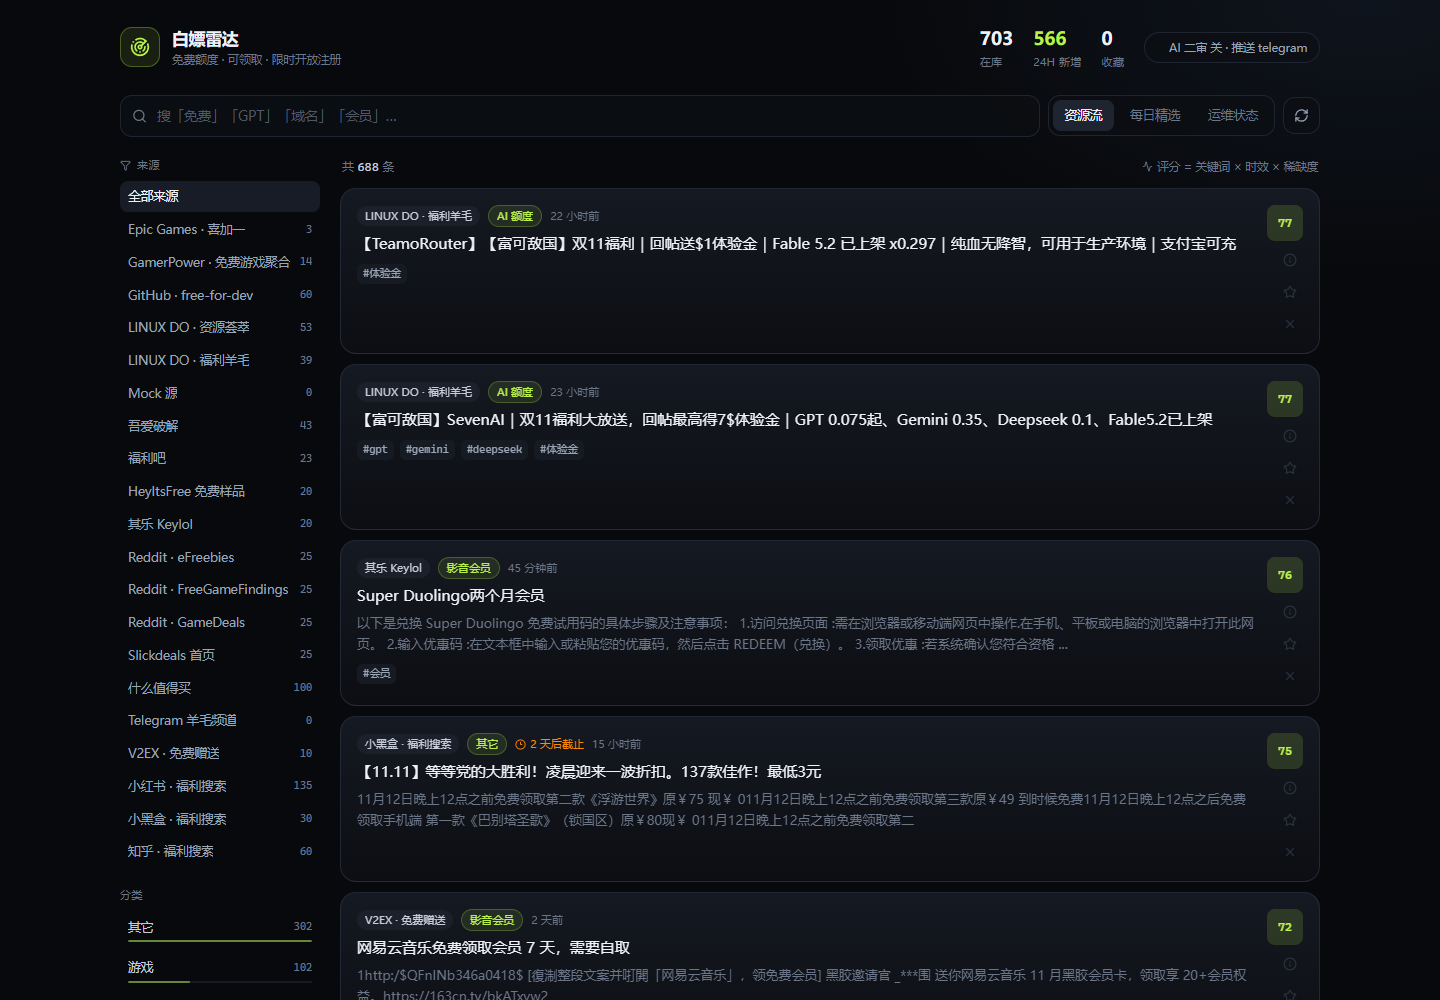
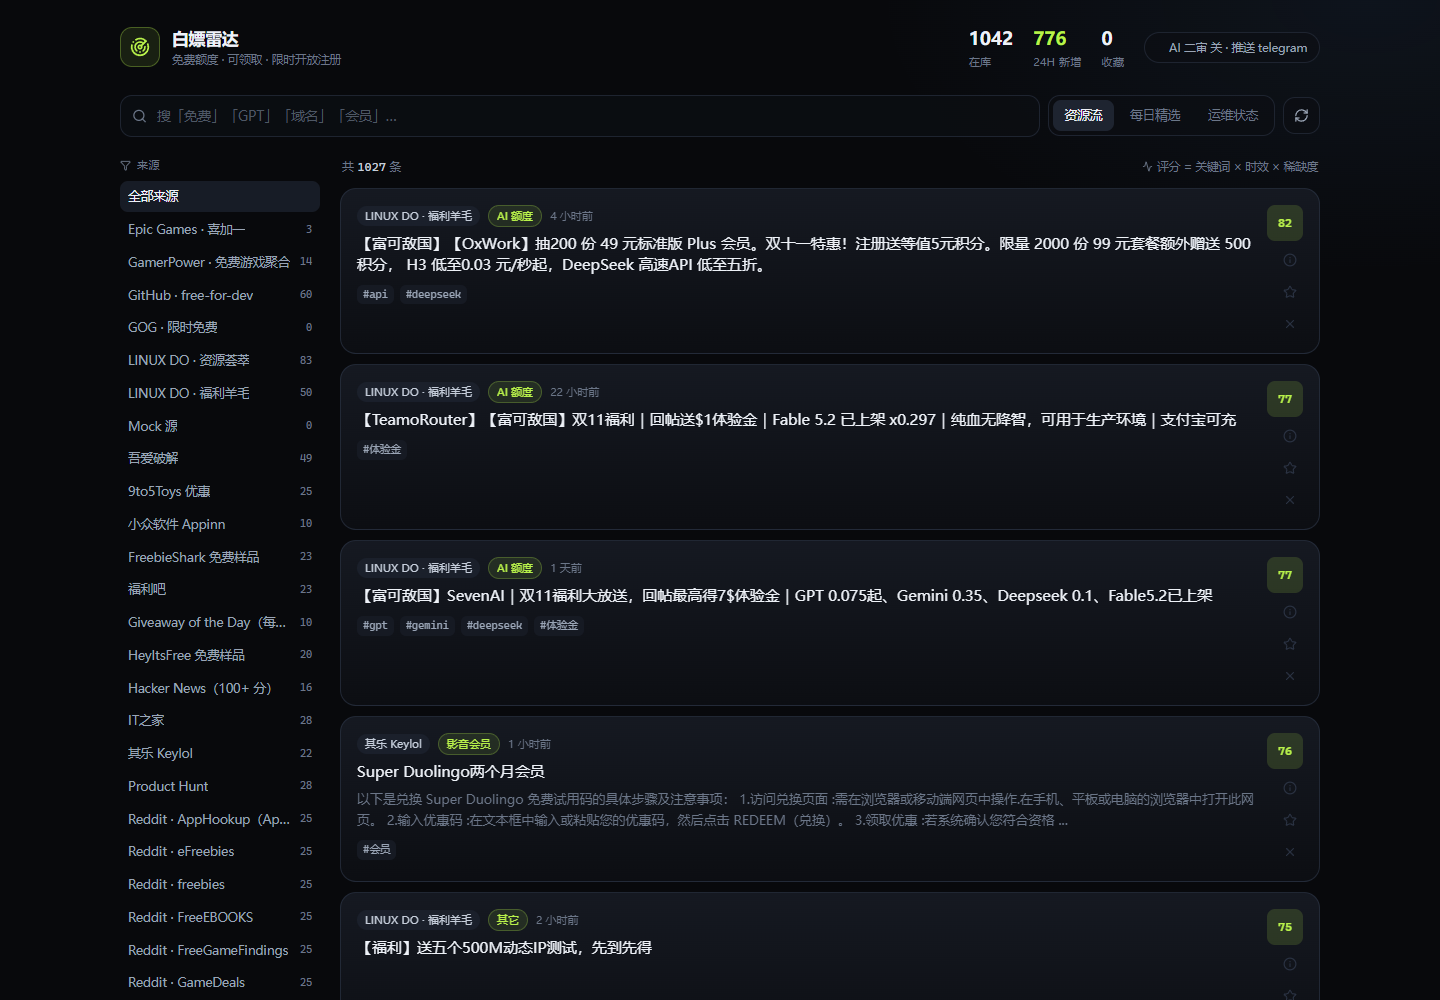
feat: 再增 13 源（Reddit×4/免费软件/AI资讯/Steam），全站 1051 条 31 源

diff --git a/src/server/collectors/index.ts b/src/server/collectors/index.ts
@@ -11,11 +11,13 @@ import { rssCollector } from "./rss.ts";
 import { telegramCollector } from "./telegram.ts";
 import { gamerpowerCollector } from "./gamerpower.ts";
 import { epicCollector } from "./epic.ts";
+import { gogCollector } from "./gog.ts";
+import { steamCollector } from "./steam.ts";
 import type { Collector, RawItem, SourceSeed } from "./types.ts";
 
 export const COLLECTORS: Collector[] = [
   mockCollector, linuxdoCollector, v2exCollector, githubCollector, rssCollector, telegramCollector,
-  gamerpowerCollector, epicCollector,
+  gamerpowerCollector, epicCollector, gogCollector, steamCollector,
 ];
 const BY_KIND = new Map(COLLECTORS.map((c) => [c.kind, c]));
 
@@ -33,6 +35,10 @@ export const SEEDS: SourceSeed[] = [
   { id: "xiaoheihe-search", name: "小黑盒 · 福利搜索", kind: "ingest", enabled: true, config: { keyword: "免费" } },
   { id: "tg-channels", name: "Telegram 羊毛频道", kind: "telegram", enabled: false, config: { channels: [] } },
   { id: "gamerpower", name: "GamerPower · 免费游戏聚合", kind: "gamerpower", enabled: true, config: { query: "type=game", limit: 60 } },
+  // GOG 的 catalog API 不支持 discount=100 / price=free 筛选（实测都返回普通折扣游戏），
+  // 商店页是 Angular SSR，解析成本高、单周通常只有 0-1 个免费，先禁用。
+  { id: "gog-free", name: "GOG · 限时免费", kind: "gog", enabled: false, config: {} },
+  { id: "steam-free", name: "Steam · 限时免费", kind: "steam", enabled: true, config: { count: 50 } },
   { id: "epic-free", name: "Epic Games · 喜加一", kind: "epic", enabled: true, config: { includeUpcoming: true } },
   { id: "rss-reddit-freegames", name: "Reddit · FreeGameFindings", kind: "rss", enabled: true, config: { feeds: [{ id: "freegamefindings", url: "https://www.reddit.com/r/FreeGameFindings/hot.rss", limit: 40 }] } },
   { id: "rss-reddit-efreebies", name: "Reddit · eFreebies", kind: "rss", enabled: true, config: { feeds: [{ id: "efreebies", url: "https://www.reddit.com/r/efreebies/hot.rss", limit: 40 }] } },
@@ -40,6 +46,18 @@ export const SEEDS: SourceSeed[] = [
   { id: "rss-slickdeals", name: "Slickdeals 首页", kind: "rss", enabled: true, config: { feeds: [{ id: "slickdeals", url: "https://slickdeals.net/newsearch.php?rss=1&searcharea=deals&searchin=first", limit: 30 }] } },
   { id: "rss-heyitsfree", name: "HeyItsFree 免费样品", kind: "rss", enabled: true, config: { feeds: [{ id: "heyitsfree", url: "https://heyitsfree.net/feed/", limit: 30 }] } },
   { id: "rss-keylol", name: "其乐 Keylol", kind: "rss", enabled: true, config: { feeds: [{ id: "keylol", url: "https://keylol.com/forum.php?mod=rss", limit: 30 }] } },
+  { id: "rss-reddit-freebies", name: "Reddit · freebies", kind: "rss", enabled: true, config: { feeds: [{ id: "freebies", url: "https://www.reddit.com/r/freebies/hot.rss", limit: 30 }] } },
+  { id: "rss-reddit-apphookup", name: "Reddit · AppHookup（App 限免）", kind: "rss", enabled: true, config: { feeds: [{ id: "apphookup", url: "https://www.reddit.com/r/AppHookup/hot.rss", limit: 30 }] } },
+  { id: "rss-reddit-freeebooks", name: "Reddit · FreeEBOOKS", kind: "rss", enabled: true, config: { feeds: [{ id: "freeebooks", url: "https://www.reddit.com/r/FreeEBOOKS/hot.rss", limit: 30 }] } },
+  { id: "rss-reddit-googleplay", name: "Reddit · GooglePlayDeals", kind: "rss", enabled: true, config: { feeds: [{ id: "googleplaydeals", url: "https://www.reddit.com/r/googleplaydeals/hot.rss", limit: 30 }] } },
+  { id: "rss-giveawayoftheday", name: "Giveaway of the Day（每日免费软件）", kind: "rss", enabled: true, config: { feeds: [{ id: "giveawayoftheday", url: "https://www.giveawayoftheday.com/feed/", limit: 20 }] } },
+  { id: "rss-appinn", name: "小众软件 Appinn", kind: "rss", enabled: true, config: { feeds: [{ id: "appinn", url: "https://www.appinn.com/feed/", limit: 20 }] } },
+  { id: "rss-sspai", name: "少数派", kind: "rss", enabled: true, config: { feeds: [{ id: "sspai", url: "https://sspai.com/feed", limit: 20 }] } },
+  { id: "rss-ithome", name: "IT之家", kind: "rss", enabled: true, config: { feeds: [{ id: "ithome", url: "https://www.ithome.com/rss/", limit: 25 }] } },
+  { id: "rss-producthunt", name: "Product Hunt", kind: "rss", enabled: true, config: { feeds: [{ id: "producthunt", url: "https://www.producthunt.com/feed", limit: 25 }] } },
+  { id: "rss-hnrss", name: "Hacker News（100+ 分）", kind: "rss", enabled: true, config: { feeds: [{ id: "hnrss", url: "https://hnrss.org/frontpage?points=100", limit: 25 }] } },
+  { id: "rss-freebieshark", name: "FreebieShark 免费样品", kind: "rss", enabled: true, config: { feeds: [{ id: "freebieshark", url: "https://www.freebieshark.com/feed/", limit: 25 }] } },
+  { id: "rss-9to5toys", name: "9to5Toys 优惠", kind: "rss", enabled: true, config: { feeds: [{ id: "9to5toys", url: "https://9to5toys.com/feed/", limit: 25 }] } },
   { id: "mock-source", name: "Mock 源", kind: "mock", enabled: false, config: {} },
 ];
 
@@ -335,5 +353,7 @@ export async function runAll(
       out.push({ sourceId: id, status: "failed", fetched: 0, inserted: 0, skipped: 0, durationMs: 0, error: message, cursor: null });
     }
   }
+    // 源之间留间隔：Reddit 一类站点对同 IP 连续请求会返回 429
+    if (config.sourceGapMs > 0) await new Promise((r) => setTimeout(r, config.sourceGapMs));
   return out;
 }

diff --git a/src/server/collectors/gog.ts b/src/server/collectors/gog.ts
@@ -1,0 +1,60 @@
+import type { Collector, RawItem } from "./types.ts";
+
+type GogProduct = {
+  id: string;
+  title: string;
+  slug?: string;
+  storeLink?: string;
+  releaseDate?: string;
+  genres?: { name?: string }[];
+  tags?: { name?: string }[];
+  price?: { finalMoney?: { amount?: string }; final?: string; base?: string; discount?: string };
+};
+
+function isoDate(d?: string): string | null {
+  if (!d) return null;
+  const m = /^(\d{4})[.\-](\d{1,2})[.\-](\d{1,2})$/.exec(d.trim());
+  if (!m) return null;
+  return new Date(Number(m[1]), Number(m[2]) - 1, Number(m[3])).toISOString();
+}
+
+function isFree(p: GogProduct): boolean {
+  const amt = String(p.price?.finalMoney?.amount ?? p.price?.final ?? "");
+  return amt === "0" || /^\$?0(\.0+)?$/.test(amt);
+}
+
+/** GOG 官方目录接口：discount=100 即 100% off（限时免费）。 */
+export const gogCollector: Collector = {
+  kind: "gog",
+  label: "GOG 限时免费",
+  defaults: { config: { country: "US", locale: "en-US", limit: 48 } },
+  async collect(ctx) {
+    const country = String(ctx.config.country ?? "US");
+    const locale = String(ctx.config.locale ?? "en-US");
+    const url =
+      "https://catalog.gog.com/v1/catalog?limit=" + Number(ctx.config.limit ?? 48) +
+      "&discount=100&productType=in:game&countryCode=" + country + "&locale=" + locale + "&currencyCode=USD";
+    ctx.log("GET " + url);
+
+    const res = await ctx.http.json<{ products?: GogProduct[] }>(url, { headers: { accept: "application/json" } });
+    if (res.status !== 200) throw new Error("GOG HTTP " + res.status);
+    const products = res.data?.products ?? [];
+    const free = products.filter(isFree);
+
+    const items: RawItem[] = free.map((p) => ({
+      externalId: String(p.id),
+      url: p.storeLink || "https://www.gog.com/en/game/" + (p.slug ?? ""),
+      title: p.title,
+      summary: [(p.genres ?? []).map((g) => g.name).filter(Boolean).slice(0, 3).join(" / "), p.price?.base ? "原价 " + p.price.base : ""]
+        .filter(Boolean)
+        .join(" · "),
+      author: "GOG.com",
+      publishedAt: isoDate(p.releaseDate),
+      tags: ["gog", "100% off", ...(p.tags ?? []).map((t) => t.name ?? "").filter(Boolean).slice(0, 3)],
+      raw: { id: p.id, slug: p.slug, discount: p.price?.discount },
+    }));
+
+    ctx.log("parsed " + items.length + " free of " + products.length);
+    return { items: items.slice(0, ctx.maxItems), cursor: null };
+  },
+};

diff --git a/src/server/collectors/steam.ts b/src/server/collectors/steam.ts
@@ -1,0 +1,49 @@
+import type { Collector, RawItem } from "./types.ts";
+import { decodeEntities } from "../enrich/normalize.ts";
+
+function parseRows(html: string): { url: string; title: string; appId: string }[] {
+  const out: { url: string; title: string; appId: string }[] = [];
+  // Steam 的 <a> 上挂了很长的 onmouseover / data-* 属性，从 href 到 title 有 1-2KB，
+  // 只给 800 字符会漏掉所有结果。
+  const re = /<a href="(https:\/\/store\.steampowered\.com\/app\/[^"]+)"[\s\S]{0,3000}?<span class="title">([^<]+)<\/span>/g;
+  let m: RegExpExecArray | null;
+  while ((m = re.exec(html))) {
+    const url = (m[1] ?? "").split("?")[0] ?? "";
+    const title = decodeEntities((m[2] ?? "").trim());
+    const appId = /\/app\/(\d+)/.exec(url)?.[1] ?? url;
+    if (url && title && !out.some((x) => x.appId === appId)) out.push({ url, title, appId });
+  }
+  return out;
+}
+
+/** Steam 商店搜索的 AJAX 接口：maxprice=free + specials=1 就是「限时免费 / 100% off」。 */
+export const steamCollector: Collector = {
+  kind: "steam",
+  label: "Steam 限时免费",
+  defaults: { config: { count: 50 } },
+  async collect(ctx) {
+    const count = Math.min(Number(ctx.config.count ?? 50), 100);
+    const url =
+      "https://store.steampowered.com/search/results/?query&start=0&count=" + count +
+      "&maxprice=free&specials=1&infinite=1&cc=us&l=schinese";
+    ctx.log("GET " + url);
+
+    const res = await ctx.http.json<{ total_count?: number; results_html?: string }>(url);
+    if (res.status !== 200) throw new Error("Steam HTTP " + res.status);
+    const rows = parseRows(res.data?.results_html ?? "");
+
+    const items: RawItem[] = rows.map((r) => ({
+      externalId: r.appId,
+      url: r.url,
+      title: r.title,
+      summary: "Steam 限时免费（100% off）",
+      author: "Steam",
+      publishedAt: null,
+      tags: ["steam", "限时免费"],
+      raw: { appId: r.appId },
+    }));
+
+    ctx.log("parsed " + items.length + " (total_count=" + (res.data?.total_count ?? "?") + ")");
+    return { items: items.slice(0, ctx.maxItems), cursor: null };
+  },
+};

diff --git a/src/web/src/App.tsx b/src/web/src/App.tsx
@@ -53,7 +53,11 @@ const SOURCE_LABEL: Record<string, string> = {
   "mock-source": "Mock 源",
 };
 
-const sourceName = (id: string) => SOURCE_LABEL[id] ?? id;
+// 源显示名以 /api/sources 的 name 为准；SOURCE_LABEL 只作首屏兜底，
+// 这样新增后端源不用再改前端。
+let SOURCE_NAMES: Record<string, string> = { ...SOURCE_LABEL };
+
+const sourceName = (id: string) => SOURCE_NAMES[id] ?? SOURCE_LABEL[id] ?? id;
 
 function timeAgo(iso: string | null): string {
   if (!iso) return "—";
@@ -436,6 +440,20 @@ export function App() {
     else history.replaceState(null, "", location.pathname + location.search);
   }, [tab]);
   const [search, setSearch] = useState("");
+  const [, bumpNames] = useState(0);
+
+  // 用后端返回的源名覆盖前端写死的表，新源无需改代码
+  useEffect(() => {
+    fetch("/api/sources")
+      .then((r) => r.json())
+      .then((d: { sources: { id: string; name: string }[] }) => {
+        const m: Record<string, string> = { ...SOURCE_LABEL };
+        for (const s of d.sources) if (s.name) m[s.id] = s.name;
+        SOURCE_NAMES = m;
+        bumpNames((n) => n + 1);
+      })
+      .catch(() => {});
+  }, []);
   const [detail, setDetail] = useState<Item | null>(null);
   const [debounced, setDebounced] = useState("");
   const [source, setSource] = useState("");

diff --git a/src/server/config.ts b/src/server/config.ts
@@ -34,6 +34,8 @@ export const config = {
   httpsProxy: str("HTTPS_PROXY"),
   fetchTimeoutMs: num("FETCH_TIMEOUT_MS", 20_000),
   minRequestGapMs: num("MIN_REQUEST_GAP_MS", 2_000),
+  /** 源与源之间的间隔，避免 Reddit 一类站点因同 IP 连续请求返回 429 */
+  sourceGapMs: num("SOURCE_GAP_MS", 3_000),
 
   flaresolverrUrl: str("FLARESOLVERR_URL"),
   flaresolverrTimeoutMs: num("FLARESOLVERR_TIMEOUT_MS", 60_000),

diff --git a/docs/data-sources.md b/docs/data-sources.md
@@ -184,3 +184,47 @@ linux.do `c/36` 福利羊毛：
 | nitter.net | 410 | 实例已下线 |
 | steamdb.info/upcoming/free | 403 | Cloudflare |
 | x.com/EpicGames | 200 HTML | 能打开但内容是 JS 渲染 + 登录墙，单页解析不稳定；tg/reddit 已覆盖同类信息，暂不接入 |
+
+## 8. 第三批源（全量铺开，2026-11-11）
+
+按「能找到的全加」的要求，又探测约 50 个候选，落地 13 个新源：
+
+| 源 id | 实测 |
+|---|---|
+| `rss-reddit-freebies` / `-apphookup` / `-freeebooks` / `-googleplay` | 各 25 条（App 限免、免费电子书、Google Play 折扣） |
+| `rss-giveawayoftheday` | 10 条（每日一款正版软件限免） |
+| `rss-appinn`（小众软件） | 10 条 |
+| `rss-sspai`（少数派） | 10 条 |
+| `rss-ithome`（IT之家） | 25 条 |
+| `rss-producthunt` | 25 条 |
+| `rss-hnrss`（HN 100+ 分） | 16 条 |
+| `rss-freebieshark` | 23 条 |
+| `rss-9to5toys` | 25 条 |
+| `steam-free` | 1 条（`search/results?maxprice=free&specials=1`，当前只有 1 个 100% off） |
+| `gog-free` | **已禁用**，见下 |
+
+全站在库 1051 条 / 31 个有数据的源，游戏类 111 条。
+
+### Reddit 限流（关键约束）
+
+Reddit 对同一 IP 的 `.rss` 请求限制极严：并发 4 路会全 429，串行 9 秒间隔仍会有 6/9 失败。因此：
+
+- 新增 `SOURCE_GAP_MS`（默认 3000）在 `runAll()` 的源之间插入间隔；
+- Reddit 各子版拆成独立 `source_id`，单源失败只标记自己 failed，不牵连其它源，下一轮自动补；
+- 实测同源重试 1 次即成功（`freeebooks` 首次 429，20 秒后 ok）。
+
+### GOG 为什么放弃
+
+`catalog.gog.com/v1/catalog` 的 `price=free` / `priceBetween=0,0` / `discount=100` 三个参数**实测都不生效**：返回 48 个普通折扣游戏（-10% / -50% / -90%），没有一个是 0 元。GOG 真正的免费（GOG Giveaway）通过首页 banner 发放，商店页是 Angular SSR，解析成本高而单周通常只有 0-1 个。源保留但 `enabled=false`。
+
+### Steam 的一个正则坑
+
+`<a href=".../app/...">` 上挂了超长的 `onmouseover` / `data-ds-*` 属性，从 `href` 到 `<span class="title">` 实际有 1-2KB。最初限制 800 字符，结果 0 条；放宽到 3000 后正常。
+
+### 前端不再写死源名
+
+`App.tsx` 改为启动时拉 `/api/sources`，用后端 `name` 覆盖内置表（`SOURCE_NAMES`）。以后加源只需改 `SEEDS`，前端零改动。
+
+### 探测后仍不可用
+
+`bensbargains` / `hunt4freebies` / `greenmangaming` / `epic_free_page` / `steamgifts` 均 403；`xbox_gwg` 404；`sampleaday` / `free_app_watch` 域名不可解析；`humblebundle` API 403、页面需 JS；`fanatical` API 返回 249KB 但结构为混合页面数据，未找到免费列表字段；`itch.io` 无 JSON 接口（`/games/free.json` 404）。
